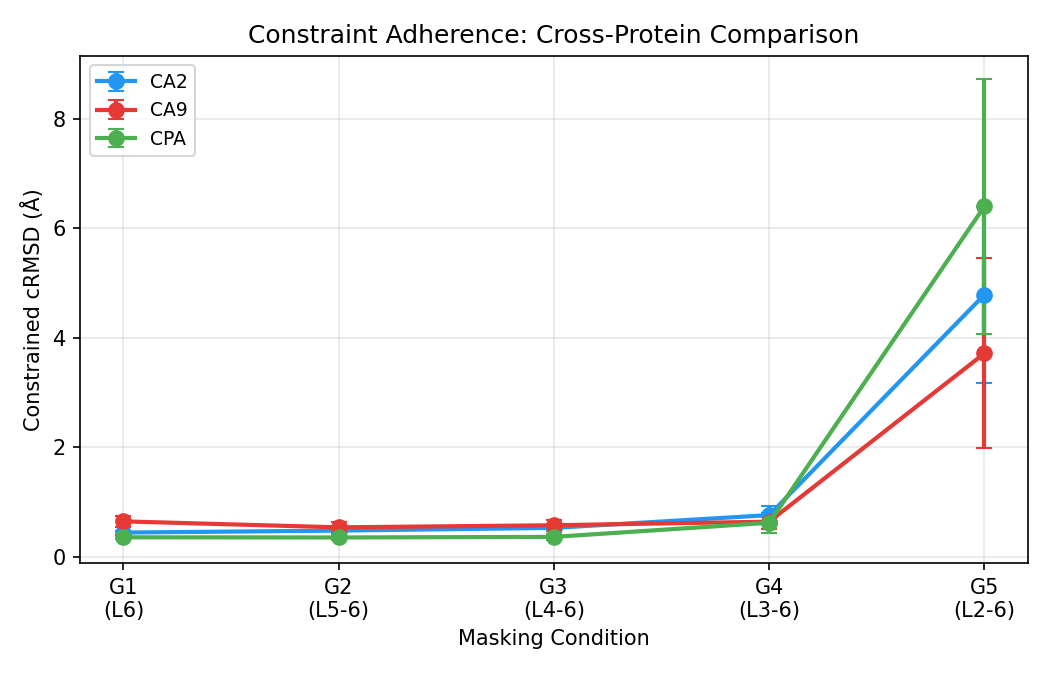
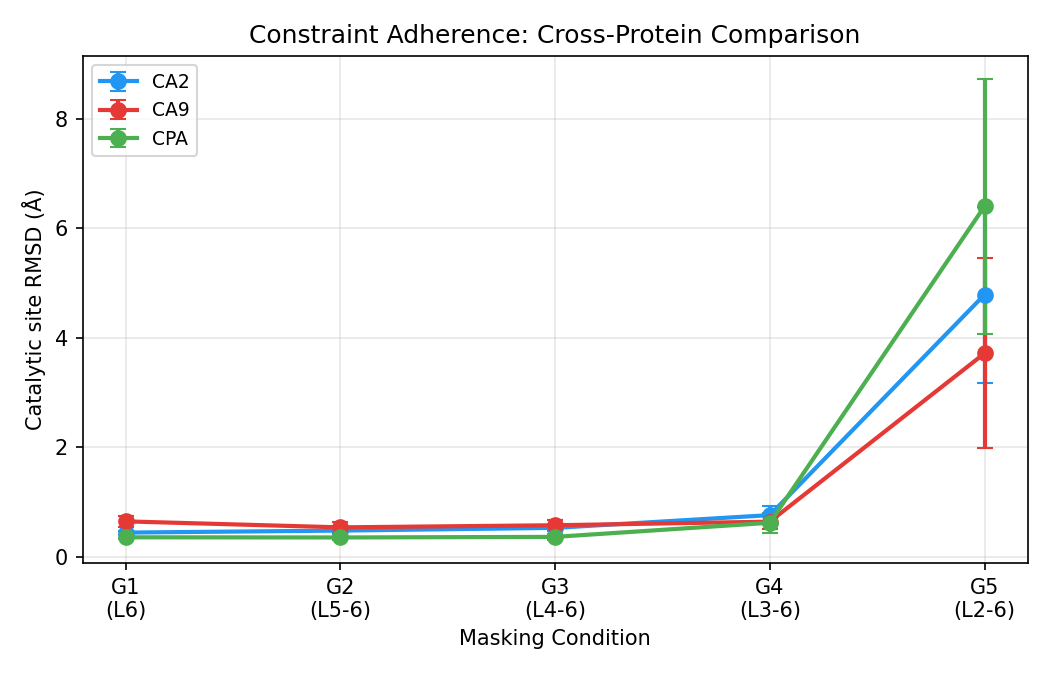
Update

diff --git a/main.py b/main.py
@@ -186,15 +186,15 @@ def run_protein(protein_cfg: dict, model, conditions: list, n_samples: int):
                     std_si = math.sqrt(sum((x - avg_si)**2 for x in seq_ids) / len(seq_ids))
                     write(f"    Mean seq identity to WT:    {avg_si:.4f} +/- {std_si:.4f}")
 
-                # Save best PDB
-                best = min(valid, key=lambda r: r["rmsd_global"])
-                pdb_out = Path(struct_dir) / f"{cond_name}_best.pdb"
-                try:
-                    best["protein"].to_pdb(str(pdb_out))
-                    write(f"  Best: sample {best['sample_id']+1}"
-                          f" (global RMSD={best['rmsd_global']} A) -> {pdb_out}")
-                except Exception as e:
-                    write(f"  [Warning] Failed to save PDB: {e}")
+                # Save all valid PDBs
+                for r in valid:
+                    pdb_out = Path(struct_dir) / f"{cond_name}_s{r['sample_id'] + 1}.pdb"
+                    try:
+                        r["protein"].to_pdb(str(pdb_out))
+                        write(f"  Saved: sample {r['sample_id']+1}"
+                              f" (global RMSD={r['rmsd_global']} A) -> {pdb_out}")
+                    except Exception as e:
+                        write(f"  [Warning] Failed to save PDB sample {r['sample_id']+1}: {e}")
 
         # ---- Final summary ----
         write("")
@@ -327,10 +327,10 @@ def plot_results(all_results: list, protein_name: str):
                fmt='o-', capsize=4, label='Global RMSD',
                color='#2196F3', linewidth=2, markersize=7)
     _safe_plot(ax1, x, constrained_rmsd_local, constrained_rmsd_local_err,
-               fmt='s--', capsize=4, label='Constrained cRMSD',
+               fmt='s--', capsize=4, label='Catalytic site RMSD',
                color='#E53935', linewidth=2, markersize=7)
     _safe_plot(ax1, x, core_rmsd_local, core_rmsd_local_err,
-               fmt='^:', capsize=4, label='Core cRMSD',
+               fmt='^:', capsize=4, label='Core RMSD',
                color='#FF9800', linewidth=2, markersize=7)
     ax1.set_xticks(x)
     ax1.set_xticklabels(x_labels)
@@ -351,7 +351,7 @@ def plot_results(all_results: list, protein_name: str):
                fmt='o-', capsize=4, label='Global lDDT-CA',
                color='#2196F3', linewidth=2, markersize=7)
     _safe_plot(ax2, x, constrained_lddt, constrained_lddt_err,
-               fmt='s--', capsize=4, label='Constrained lDDT-CA',
+               fmt='s--', capsize=4, label='Catalytic site lDDT-CA',
                color='#E53935', linewidth=2, markersize=7)
     _safe_plot(ax2, x, core_lddt, core_lddt_err,
                fmt='^:', capsize=4, label='Core lDDT-CA',
@@ -438,7 +438,7 @@ def plot_cross_protein(all_protein_results: dict):
     ax1.set_xticks(x)
     ax1.set_xticklabels(short_labels)
     ax1.set_xlabel('Masking Condition')
-    ax1.set_ylabel('Constrained lDDT-CA')
+    ax1.set_ylabel('Catalytic site lDDT-CA')
     ax1.set_title('Active Site Preservation: Cross-Protein Comparison')
     ax1.set_ylim(0, 1.05)
     ax1.legend(fontsize=9)
@@ -462,7 +462,7 @@ def plot_cross_protein(all_protein_results: dict):
     ax2.set_xticks(x)
     ax2.set_xticklabels(short_labels)
     ax2.set_xlabel('Masking Condition')
-    ax2.set_ylabel('Constrained cRMSD (Å)')
+    ax2.set_ylabel('Catalytic site RMSD (Å)')
     ax2.set_title('Constraint Adherence: Cross-Protein Comparison')
     ax2.legend(fontsize=9)
     ax2.grid(True, alpha=0.3)
